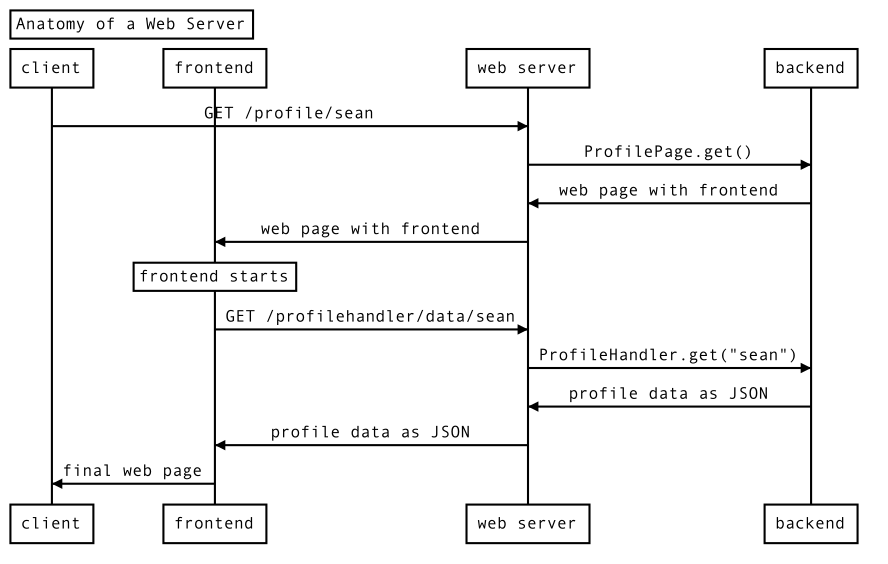
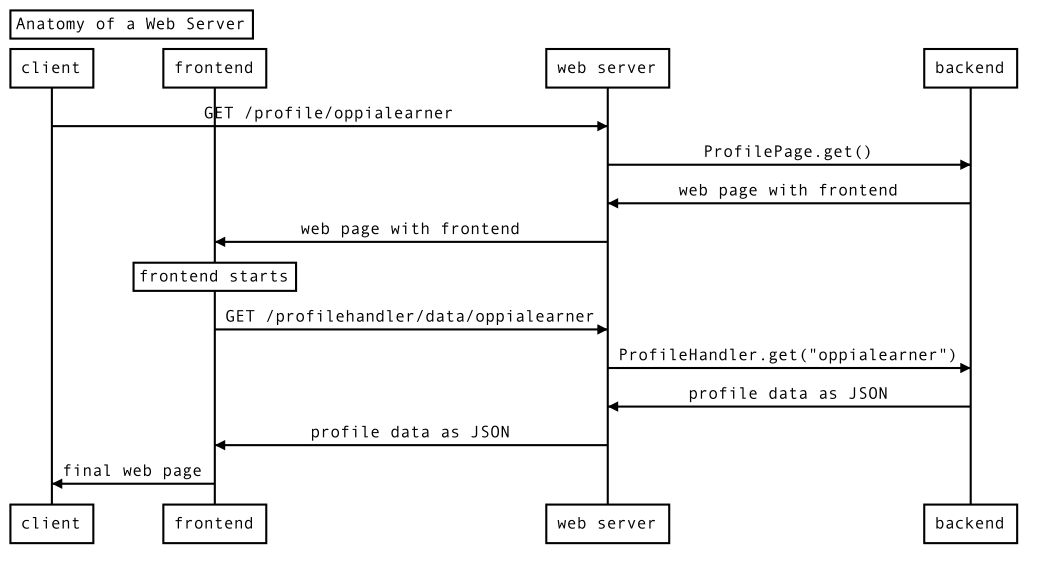
Replace 'sean' with 'oppialearner'

diff --git a/Overview-of-the-Oppia-codebase.md b/Overview-of-the-Oppia-codebase.md
@@ -24,7 +24,7 @@ Oppia is built with [Google App Engine](https://developers.google.com/appengine/
 
 If you aren't too familiar with web servers, you might be wondering what terms like "frontend" and "backend" mean. Here's a quick primer.
 
-Suppose you want to view the profile page of the Oppia user `sean`, so you point your browser to https://www.oppia.org/profile/sean. This diagram illustrates what happens:
+Suppose you want to view the profile page of the Oppia user `oppialearner`, so you point your browser to `/profile/oppialearner`. If you start a local development server and create a user with username `oppialearner`, you can see this page at http://localhost:8181/profile/oppialearner. This diagram illustrates what happens:
 
 ![UML sequence diagram showing a website frontend and backend](images/overview/anatomy.png)
 
@@ -41,22 +41,22 @@ participant frontend
 participant web server as webserver
 participant backend
 
-client -> webserver: GET /profile/sean
+client -> webserver: GET /profile/oppialearner
 webserver -> backend: ProfilePage.get()
 backend -> webserver: web page with frontend
 webserver -> frontend: web page with frontend
 Note over frontend: frontend starts
-frontend -> webserver: GET /profilehandler/data/sean
-webserver -> backend: ProfileHandler.get("sean")
+frontend -> webserver: GET /profilehandler/data/oppialearner
+webserver -> backend: ProfileHandler.get("oppialearner")
 backend -> webserver: profile data as JSON
 webserver -> frontend: profile data as JSON
 frontend -> client: final web page
 ```
 </details>
 
-First, your browser (the client) sends a request to Oppia's web server for the path `/profile/sean`. The webserver passes this request to the appropriate handler function in the backend code. The backend code responds with a web page that contains the frontend code, which the web server passes along to your browser.
+First, your browser (the client) sends a request to Oppia's web server for the path `/profile/oppialearner`. The webserver passes this request to the appropriate handler function in the backend code. The backend code responds with a web page that contains the frontend code, which the web server passes along to your browser.
 
-Now the frontend code starts running in your browser and, in this example, requests additional data from the web server by issuing a request for the `/profilehandler/data/sean` path. Once again, the web server passes this request to the appropriate backend function, which responds. This time however, the response is [JSON-formatted data](https://developer.mozilla.org/en-US/docs/Learn/JavaScript/Objects/JSON), not a web page. This JSON data is passed to the frontend. The JSON data is not very readable, but you can see it by navigating to https://www.oppia.org/profilehandler/data/sean.
+Now the frontend code starts running in your browser and, in this example, requests additional data from the web server by issuing a request for the `/profilehandler/data/oppialearner` path. Once again, the web server passes this request to the appropriate backend function, which responds. This time however, the response is [JSON-formatted data](https://developer.mozilla.org/en-US/docs/Learn/JavaScript/Objects/JSON), not a web page. This JSON data is passed to the frontend. The JSON data is not very readable, but you can see it by navigating to http://localhost:8181/profilehandler/data/oppialearner.
 
 While all these operations have been running, your browser has been showing a loading page. Now, the frontend code uses the profile JSON data to create the final web page, which you then see.
 
